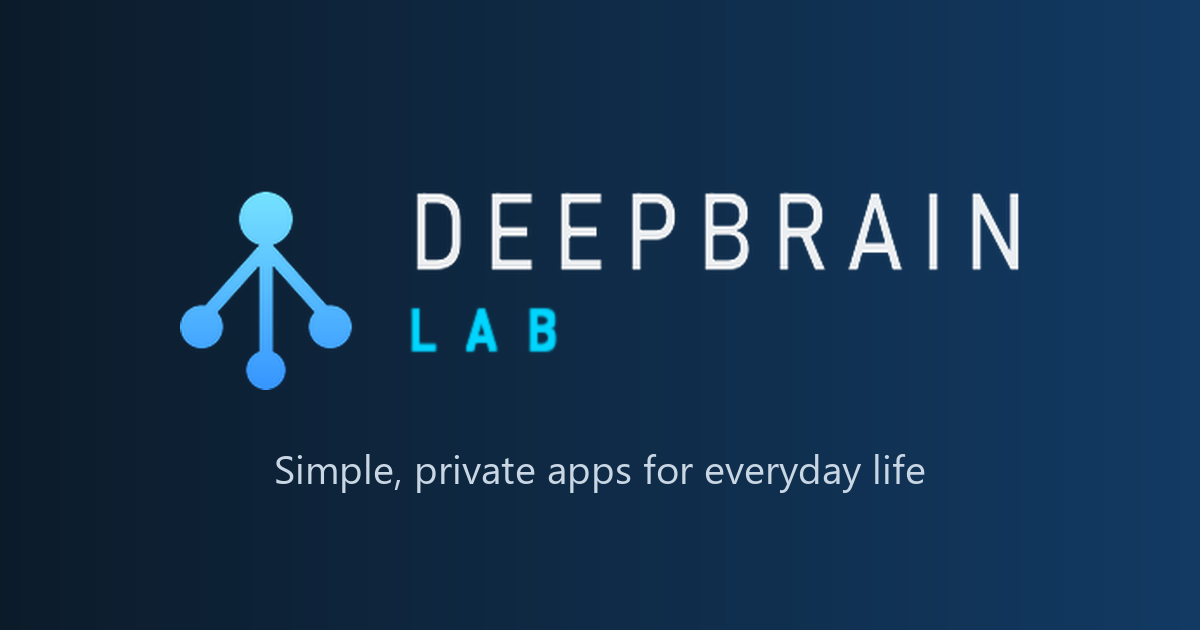
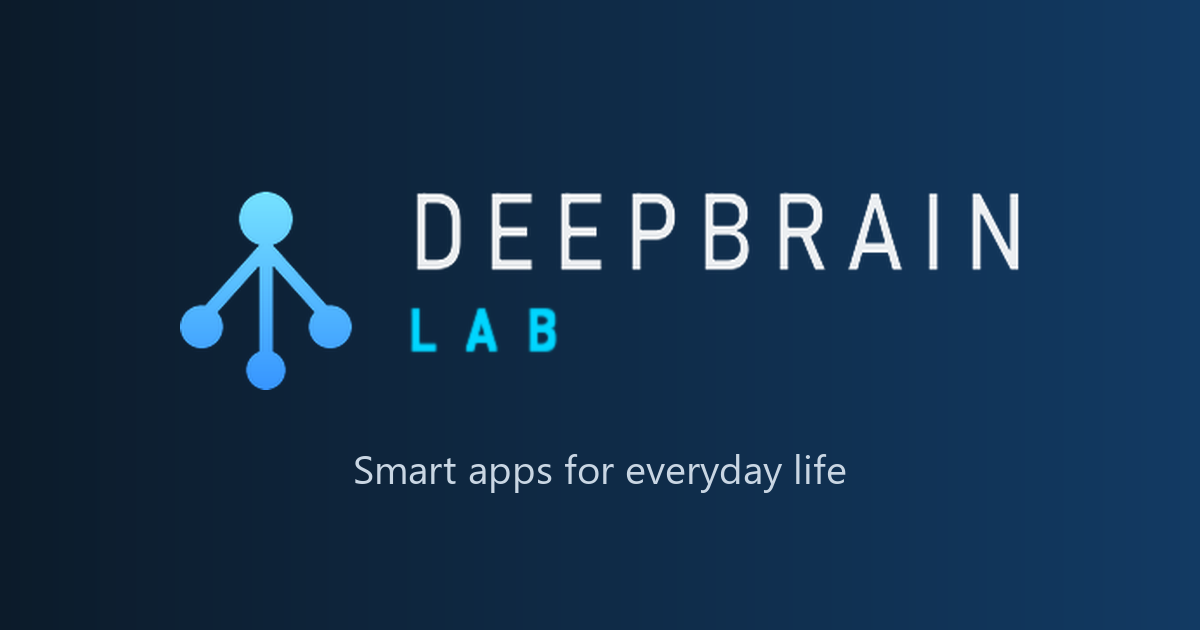
Homepage wording; Photo & PDF Resizer name

Changed region(s): [[0.2158, 0.7238, 0.7708, 0.7841]]

diff --git a/index.html b/index.html
@@ -3,12 +3,12 @@
 <head>
 <meta charset="utf-8">
 <meta name="viewport" content="width=device-width, initial-scale=1">
-<title>DeepBrain LAB - Simple, private Android apps</title>
-<meta name="description" content="DeepBrain LAB makes simple, private Android apps: Study Tracker, Money Manager, Notes, DeepCal, Photo Resizer, QR Scanner, GPS Map Camera.">
+<title>DeepBrain LAB - Smart apps for everyday life</title>
+<meta name="description" content="Android apps by DeepBrain LAB: Study Tracker, Money Manager, Notes, DeepCal, Photo &amp; PDF Resizer, QR Scanner, GPS Map Camera. No account needed, and your data stays on your phone.">
 <meta name="theme-color" content="#0c1b2a">
 <meta name="referrer" content="strict-origin-when-cross-origin">
 <meta property="og:type" content="website"><meta property="og:site_name" content="DeepBrain LAB">
-<meta property="og:title" content="DeepBrain LAB - Simple, private Android apps"><meta property="og:description" content="DeepBrain LAB makes simple, private Android apps: Study Tracker, Money Manager, Notes, DeepCal, Photo Resizer, QR Scanner, GPS Map Camera.">
+<meta property="og:title" content="DeepBrain LAB - Smart apps for everyday life"><meta property="og:description" content="Android apps by DeepBrain LAB: Study Tracker, Money Manager, Notes, DeepCal, Photo &amp; PDF Resizer, QR Scanner, GPS Map Camera. No account needed, and your data stays on your phone.">
 <link rel="icon" type="image/png" sizes="64x64" href="assets/favicon.png">
 <link rel="apple-touch-icon" href="assets/apple-touch-icon.png">
 <meta property="og:image" content="https://deepbrainlab26.github.io/assets/og-image.png">
@@ -18,9 +18,9 @@
 </head>
 <body>
 <header class="top"><div class="wrap nav"><a class="brand" href="index.html" aria-label="DeepBrain LAB home"><img src="assets/brand-logo.png" alt="DeepBrain LAB" height="48"></a><span><a href="index.html#apps">Apps</a><a href="privacy/index.html">Privacy</a><a href="index.html#contact">Contact</a></span></div>
-<div class="wrap hero"><h1>Simple, private apps for everyday life</h1>
-<p>DeepBrain LAB makes small Android apps that do one job well. No accounts and no sign-up: what you create stays on
-your phone.</p>
+<div class="wrap hero"><h1>Smart apps for everyday life</h1>
+<p>DeepBrain LAB builds Android apps for studying, money, notes, photos, PDFs, QR codes and more. They are fast and easy
+to use, need no account or sign-up, and keep what you create on your phone.</p>
 <div class="cta"><a class="main" href="#apps">See our apps</a><a class="ghost" href="privacy/index.html">Privacy Policy</a></div></div></header>
 <main class="wrap">
 <div class="grid" id="apps"><article class="card"><div class="head"><img class="ic" src="assets/icons/studytracker.png" alt="" width="64" height="64">
@@ -32,14 +32,14 @@ your phone.</p>
 <div class="links"><span class="soon">Coming soon to Google Play</span></div></article><article class="card"><div class="head"><img class="ic" src="assets/icons/calculator.png" alt="" width="64" height="64">
 <div><h3>DeepCal</h3><p>Every calculator in one app.</p></div></div>
 <div class="links"><span class="soon">Coming soon to Google Play</span></div></article><article class="card"><div class="head"><img class="ic" src="assets/icons/photoresize.png" alt="" width="64" height="64">
-<div><h3>Photo Resizer</h3><p>Resize photos to an exact KB size.</p></div></div>
+<div><h3>Photo &amp; PDF Resizer</h3><p>Resize photos to an exact KB size, and create, compress, merge or split PDFs.</p></div></div>
 <div class="links"><span class="soon">Coming soon to Google Play</span></div></article><article class="card"><div class="head"><img class="ic" src="assets/icons/qrscanner.png" alt="" width="64" height="64">
 <div><h3>QR Scanner</h3><p>Scan and create QR codes and barcodes.</p></div></div>
 <div class="links"><span class="soon">Coming soon to Google Play</span></div></article><article class="card"><div class="head"><img class="ic" src="assets/icons/gpscamera.png" alt="" width="64" height="64">
 <div><h3>GPS Map Camera</h3><p>Stamp address, date and time on your photos.</p></div></div>
 <div class="links"><span class="soon">Coming soon to Google Play</span></div></article></div>
 <section><h2>How we build apps</h2><div class="values">
-<div><svg viewBox="0 0 24 24" width="24" height="24" fill="none" stroke="currentColor" stroke-width="1.7" stroke-linecap="round" stroke-linejoin="round" aria-hidden="true"><rect x="7" y="2.5" width="10" height="19" rx="2.5"/><path d="M11 18.5h2"/></svg><b>Private by design</b>What you create in our apps is stored on your own phone. We never see it.</div>
+<div><svg viewBox="0 0 24 24" width="24" height="24" fill="none" stroke="currentColor" stroke-width="1.7" stroke-linecap="round" stroke-linejoin="round" aria-hidden="true"><rect x="7" y="2.5" width="10" height="19" rx="2.5"/><path d="M11 18.5h2"/></svg><b>Private by design</b>What you create in our apps is stored on your own phone, not on our servers. We never see it.</div>
 <div><svg viewBox="0 0 24 24" width="24" height="24" fill="none" stroke="currentColor" stroke-width="1.7" stroke-linecap="round" stroke-linejoin="round" aria-hidden="true"><circle cx="12" cy="8" r="3.6"/><path d="M4.5 20c1.2-3.6 4-5.4 7.5-5.4s6.3 1.8 7.5 5.4"/><path d="M4 4l16 16"/></svg><b>No account needed</b>Open the app and start. There is nothing to sign up for.</div>
 <div><svg viewBox="0 0 24 24" width="24" height="24" fill="none" stroke="currentColor" stroke-width="1.7" stroke-linecap="round" stroke-linejoin="round" aria-hidden="true"><rect x="3" y="5.5" width="18" height="13" rx="2.5"/><path d="M7.5 15l2-6 2 6M8.2 13h2.6M14.5 9v6h1.3a2.5 2.5 0 0 0 0-5h-1.3"/></svg><b>Free, with ads</b>Our apps are free and show ads from Google AdMob. In the EEA and UK you are asked for consent first.</div>
 <div><svg viewBox="0 0 24 24" width="24" height="24" fill="none" stroke="currentColor" stroke-width="1.7" stroke-linecap="round" stroke-linejoin="round" aria-hidden="true"><path d="M12 3l7.5 3v5.5c0 4.6-3.2 8.3-7.5 9.5-4.3-1.2-7.5-4.9-7.5-9.5V6z"/><path d="M8.8 12l2.2 2.2 4.2-4.4"/></svg><b>You stay in control</b>Permissions are asked only when a feature needs them, and you can delete your data at any time.</div>

diff --git a/privacy/photoresize.html b/privacy/photoresize.html
@@ -3,8 +3,8 @@
 <head>
 <meta charset="utf-8">
 <meta name="viewport" content="width=device-width, initial-scale=1">
-<title>Privacy Policy - Photo Resizer - DeepBrain LAB</title>
-<meta name="description" content="Privacy policy for Photo Resizer (deepbrain.lab.photoresize) by DeepBrain LAB: data stays on your phone, no account, ads by Google AdMob.">
+<title>Privacy Policy - Photo &amp; PDF Resizer - DeepBrain LAB</title>
+<meta name="description" content="Privacy policy for Photo &amp; PDF Resizer (deepbrain.lab.photoresize) by DeepBrain LAB: data stays on your phone, no account, ads by Google AdMob.">
 <meta name="robots" content="index, follow">
 <link rel="icon" type="image/png" sizes="64x64" href="../assets/favicon.png">
 <link rel="apple-touch-icon" href="../assets/apple-touch-icon.png">
@@ -77,7 +77,7 @@ footer{border-top:1px solid var(--line);padding:24px 0 40px;color:var(--muted);f
 <div class="wrap nav"><a class="brand" href="../index.html" aria-label="DeepBrain LAB home"><img src="../assets/brand-logo.png" alt="DeepBrain LAB" height="48"></a>
 <span><a href="../index.html#apps">Apps</a><a href="index.html">Privacy</a><a href="mailto:deepbrainlab26@gmail.com">Contact</a></span></div>
 <div class="wrap hero"><img class="ic" src="../assets/icons/photoresize.png" alt="" width="88" height="88">
-<div><p class="eyebrow">Privacy Policy</p><h1>Photo Resizer</h1>
+<div><p class="eyebrow">Privacy Policy</p><h1>Photo &amp; PDF Resizer</h1>
 <p class="lead">What the app does, and does not do, with your information. Plain words, no surprises.</p>
 <div class="meta"><span>Last updated 22 September 2026</span><span>Effective 22 September 2026</span><span>Developer: DeepBrain LAB</span></div></div></div>
 </header>
@@ -88,9 +88,9 @@ footer{border-top:1px solid var(--line);padding:24px 0 40px;color:var(--muted);f
 <article>
 <section id="about"><h2>About this policy</h2>
 
-<p>This policy explains how <b>Photo Resizer</b> (a tool to resize and compress photos and to create, compress, merge and split PDF files), published on Google Play by <b>DeepBrain LAB</b>, handles your
+<p>This policy explains how <b>Photo &amp; PDF Resizer</b> (a tool to resize and compress photos and to create, compress, merge and split PDF files), published on Google Play by <b>DeepBrain LAB</b>, handles your
 information. It covers the Android app with the package name <code>deepbrain.lab.photoresize</code>.</p>
-<p>In short: Photo Resizer has <b>no account and no sign-in</b>, keeps what you create <b>on your phone</b>, and shows ads
+<p>In short: Photo &amp; PDF Resizer has <b>no account and no sign-in</b>, keeps what you create <b>on your phone</b>, and shows ads
 from <b>Google AdMob</b>. We, the developer, do not collect, store or see your personal information.</p>
 <p><b>Who is responsible:</b> DeepBrain LAB is the developer of the app and, where a law uses the term, the data controller for
 the little personal information we handle ourselves (such as the emails you send us). Our contact details are in the
@@ -108,7 +108,7 @@ way to see it.</p>
 </section>
 <section id="third-parties"><h2>Information handled by other services</h2>
 
-<p>Photo Resizer shows ads from <b>Google AdMob</b>. The services below may receive information directly from your phone. We (the developer) never receive it, and we
+<p>Photo &amp; PDF Resizer shows ads from <b>Google AdMob</b>. The services below may receive information directly from your phone. We (the developer) never receive it, and we
 never send them anything you create in the app.</p>
 <p>Ads appear as banners, as native ads inside the app's screens and as full-screen ads between screens, and are
 always marked as ads. Google decides which ad is shown and acts as an <b>independent controller</b> of the
@@ -178,7 +178,7 @@ Ads</b> (or <b>Settings &rarr; Google &rarr; Ads</b> on older phones).</li>
 <li><b>Consent</b>: where the law requires it (such as in the EEA, the UK and Switzerland) the app asks before any
 personalised ad is shown. Change your choice at any time from <b>Privacy settings</b> in the app's menu, which appears
 whenever a privacy choice applies where you live.</li>
-<li><b>Permissions</b>: allow or remove any permission in Android <b>Settings &rarr; Apps &rarr; Photo Resizer &rarr;
+<li><b>Permissions</b>: allow or remove any permission in Android <b>Settings &rarr; Apps &rarr; Photo &amp; PDF Resizer &rarr;
 Permissions</b>.</li>
 <li><b>Delete everything</b>: delete items in the app, clear the app's storage, or uninstall the app. We hold no copy,
 so nothing is left on our side.</li></ul>
@@ -225,9 +225,9 @@ changes will be summarised at the top of the page. This version is effective fro
 </section>
 <section id="contact"><h2>Contact us</h2>
 
-<div class="contact"><div><p><b>DeepBrain LAB</b>, developer of Photo Resizer<br>Email: <a href="mailto:deepbrainlab26@gmail.com">deepbrainlab26@gmail.com</a></p>
+<div class="contact"><div><p><b>DeepBrain LAB</b>, developer of Photo &amp; PDF Resizer<br>Email: <a href="mailto:deepbrainlab26@gmail.com">deepbrainlab26@gmail.com</a></p>
 <p>Questions, requests about your data and complaints (grievances) are answered within 30 days.</p></div>
-<a class="btn" href="mailto:deepbrainlab26@gmail.com?subject=Photo Resizer%20privacy"><svg viewBox="0 0 24 24" width="24" height="24" fill="none" stroke="currentColor" stroke-width="1.7" stroke-linecap="round" stroke-linejoin="round" aria-hidden="true"><rect x="3" y="5.5" width="18" height="13" rx="2.5"/><path d="M3.8 7l8.2 6 8.2-6"/></svg>Email us</a></div>
+<a class="btn" href="mailto:deepbrainlab26@gmail.com?subject=Photo &amp;amp; PDF Resizer%20privacy"><svg viewBox="0 0 24 24" width="24" height="24" fill="none" stroke="currentColor" stroke-width="1.7" stroke-linecap="round" stroke-linejoin="round" aria-hidden="true"><rect x="3" y="5.5" width="18" height="13" rx="2.5"/><path d="M3.8 7l8.2 6 8.2-6"/></svg>Email us</a></div>
 </section>
 </article>
 </div>

diff --git a/privacy/index.html b/privacy/index.html
@@ -77,7 +77,7 @@ footer{border-top:1px solid var(--line);padding:24px 0 40px;color:var(--muted);f
 <div class="wrap nav"><a class="brand" href="../index.html" aria-label="DeepBrain LAB home"><img src="../assets/brand-logo.png" alt="DeepBrain LAB" height="48"></a>
 <span><a href="../index.html#apps">Apps</a><a href="index.html">Privacy</a><a href="mailto:deepbrainlab26@gmail.com">Contact</a></span></div>
 <div class="wrap hero"><div><p class="eyebrow">Privacy Policy</p><h1>Privacy at DeepBrain LAB</h1>
-<p class="lead">Simple apps that keep your data on your phone. Here is exactly what happens with your information.</p>
+<p class="lead">Our apps keep your data on your phone. Here is exactly what happens with your information.</p>
 <div class="meta"><span>Last updated 22 September 2026</span><span>Effective 22 September 2026</span><span>7 apps</span></div></div></div>
 </header>
 <main class="wrap">
@@ -89,7 +89,7 @@ footer{border-top:1px solid var(--line);padding:24px 0 40px;color:var(--muted);f
 
 <p>This page covers every app published on Google Play by <b>DeepBrain LAB</b>. Each app also has its own policy with the exact
 data it stores, the permissions it uses and why. Please read the one for your app.</p>
-<div class="apps"><a href="studytracker.html"><img src="../assets/icons/studytracker.png" alt="" width="44" height="44"><span><b>Study Tracker</b><small>deepbrain.lab.studytracker</small></span></a><a href="moneymanager.html"><img src="../assets/icons/moneymanager.png" alt="" width="44" height="44"><span><b>Money Manager</b><small>deepbrain.lab.moneymanager</small></span></a><a href="notes.html"><img src="../assets/icons/notes.png" alt="" width="44" height="44"><span><b>Notes</b><small>deepbrain.lab.notes</small></span></a><a href="calculator.html"><img src="../assets/icons/calculator.png" alt="" width="44" height="44"><span><b>DeepCal</b><small>deepbrain.lab.calculator</small></span></a><a href="photoresize.html"><img src="../assets/icons/photoresize.png" alt="" width="44" height="44"><span><b>Photo Resizer</b><small>deepbrain.lab.photoresize</small></span></a><a href="qrscanner.html"><img src="../assets/icons/qrscanner.png" alt="" width="44" height="44"><span><b>QR Scanner</b><small>deepbrain.lab.qrscanner</small></span></a><a href="gpscamera.html"><img src="../assets/icons/gpscamera.png" alt="" width="44" height="44"><span><b>GPS Map Camera</b><small>deepbrain.lab.gpscamera</small></span></a></div>
+<div class="apps"><a href="studytracker.html"><img src="../assets/icons/studytracker.png" alt="" width="44" height="44"><span><b>Study Tracker</b><small>deepbrain.lab.studytracker</small></span></a><a href="moneymanager.html"><img src="../assets/icons/moneymanager.png" alt="" width="44" height="44"><span><b>Money Manager</b><small>deepbrain.lab.moneymanager</small></span></a><a href="notes.html"><img src="../assets/icons/notes.png" alt="" width="44" height="44"><span><b>Notes</b><small>deepbrain.lab.notes</small></span></a><a href="calculator.html"><img src="../assets/icons/calculator.png" alt="" width="44" height="44"><span><b>DeepCal</b><small>deepbrain.lab.calculator</small></span></a><a href="photoresize.html"><img src="../assets/icons/photoresize.png" alt="" width="44" height="44"><span><b>Photo &amp; PDF Resizer</b><small>deepbrain.lab.photoresize</small></span></a><a href="qrscanner.html"><img src="../assets/icons/qrscanner.png" alt="" width="44" height="44"><span><b>QR Scanner</b><small>deepbrain.lab.qrscanner</small></span></a><a href="gpscamera.html"><img src="../assets/icons/gpscamera.png" alt="" width="44" height="44"><span><b>GPS Map Camera</b><small>deepbrain.lab.gpscamera</small></span></a></div>
 </section>
 <section id="on-device"><h2>Information stored on your phone</h2>
 
